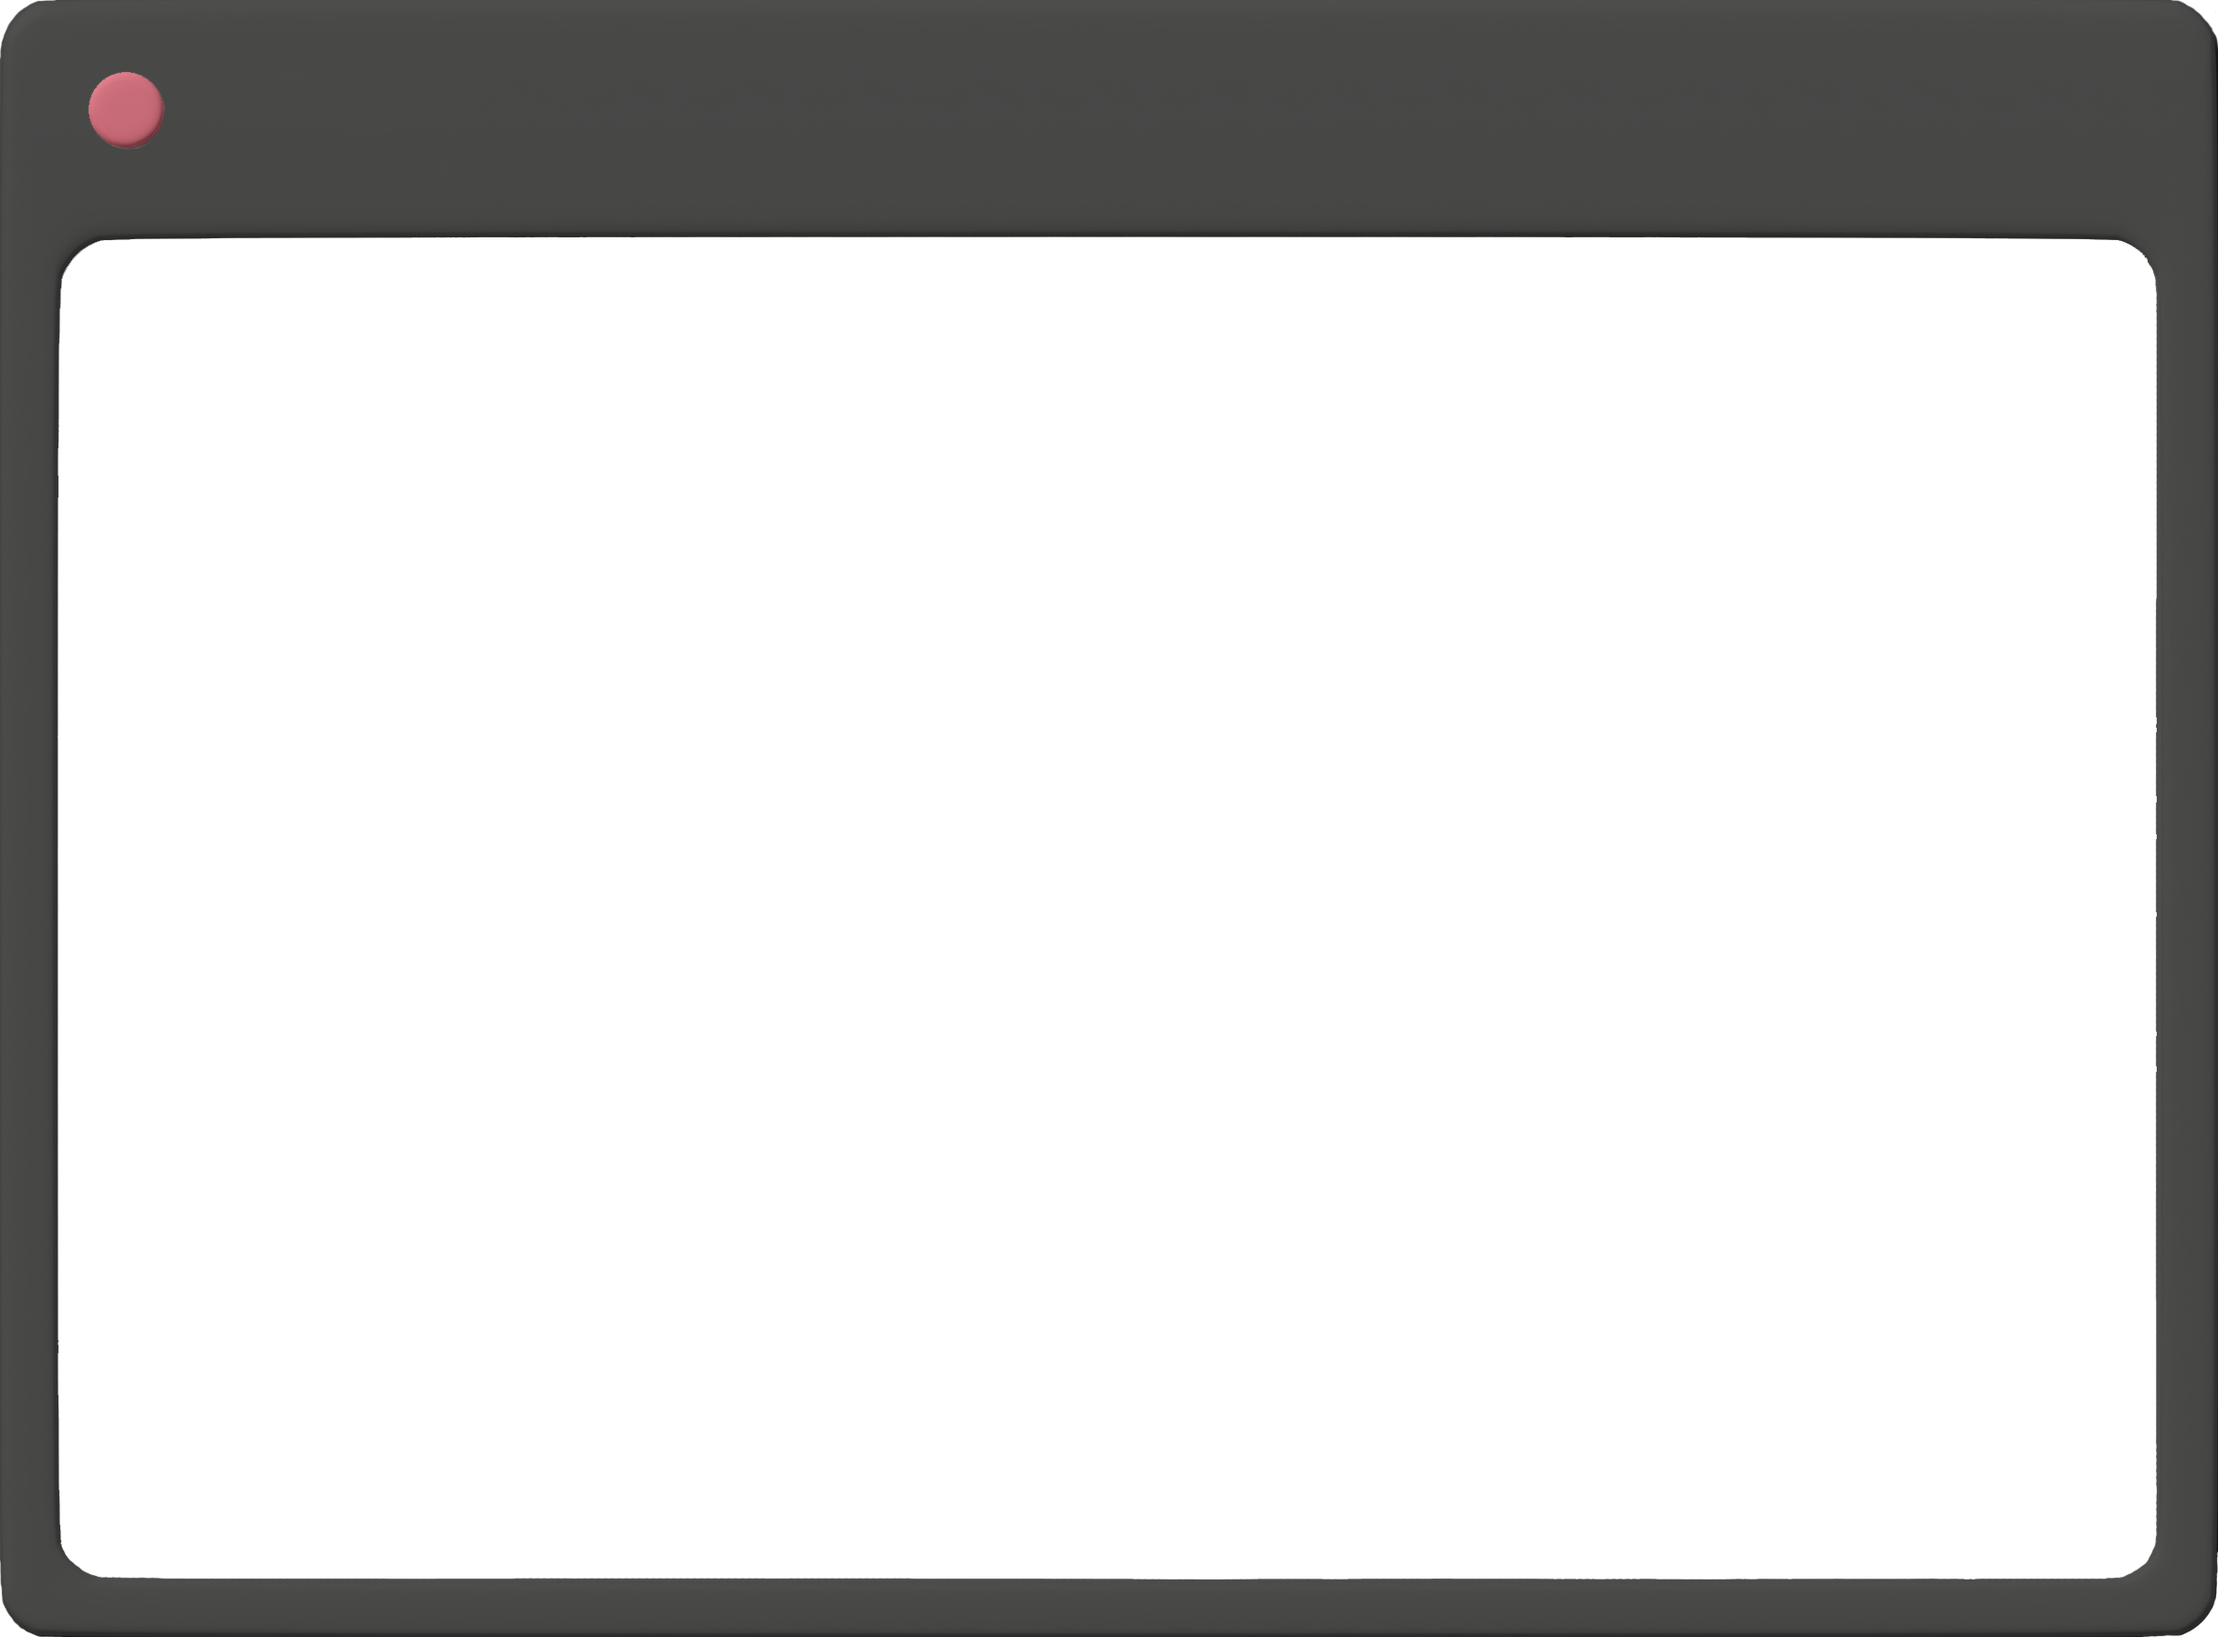
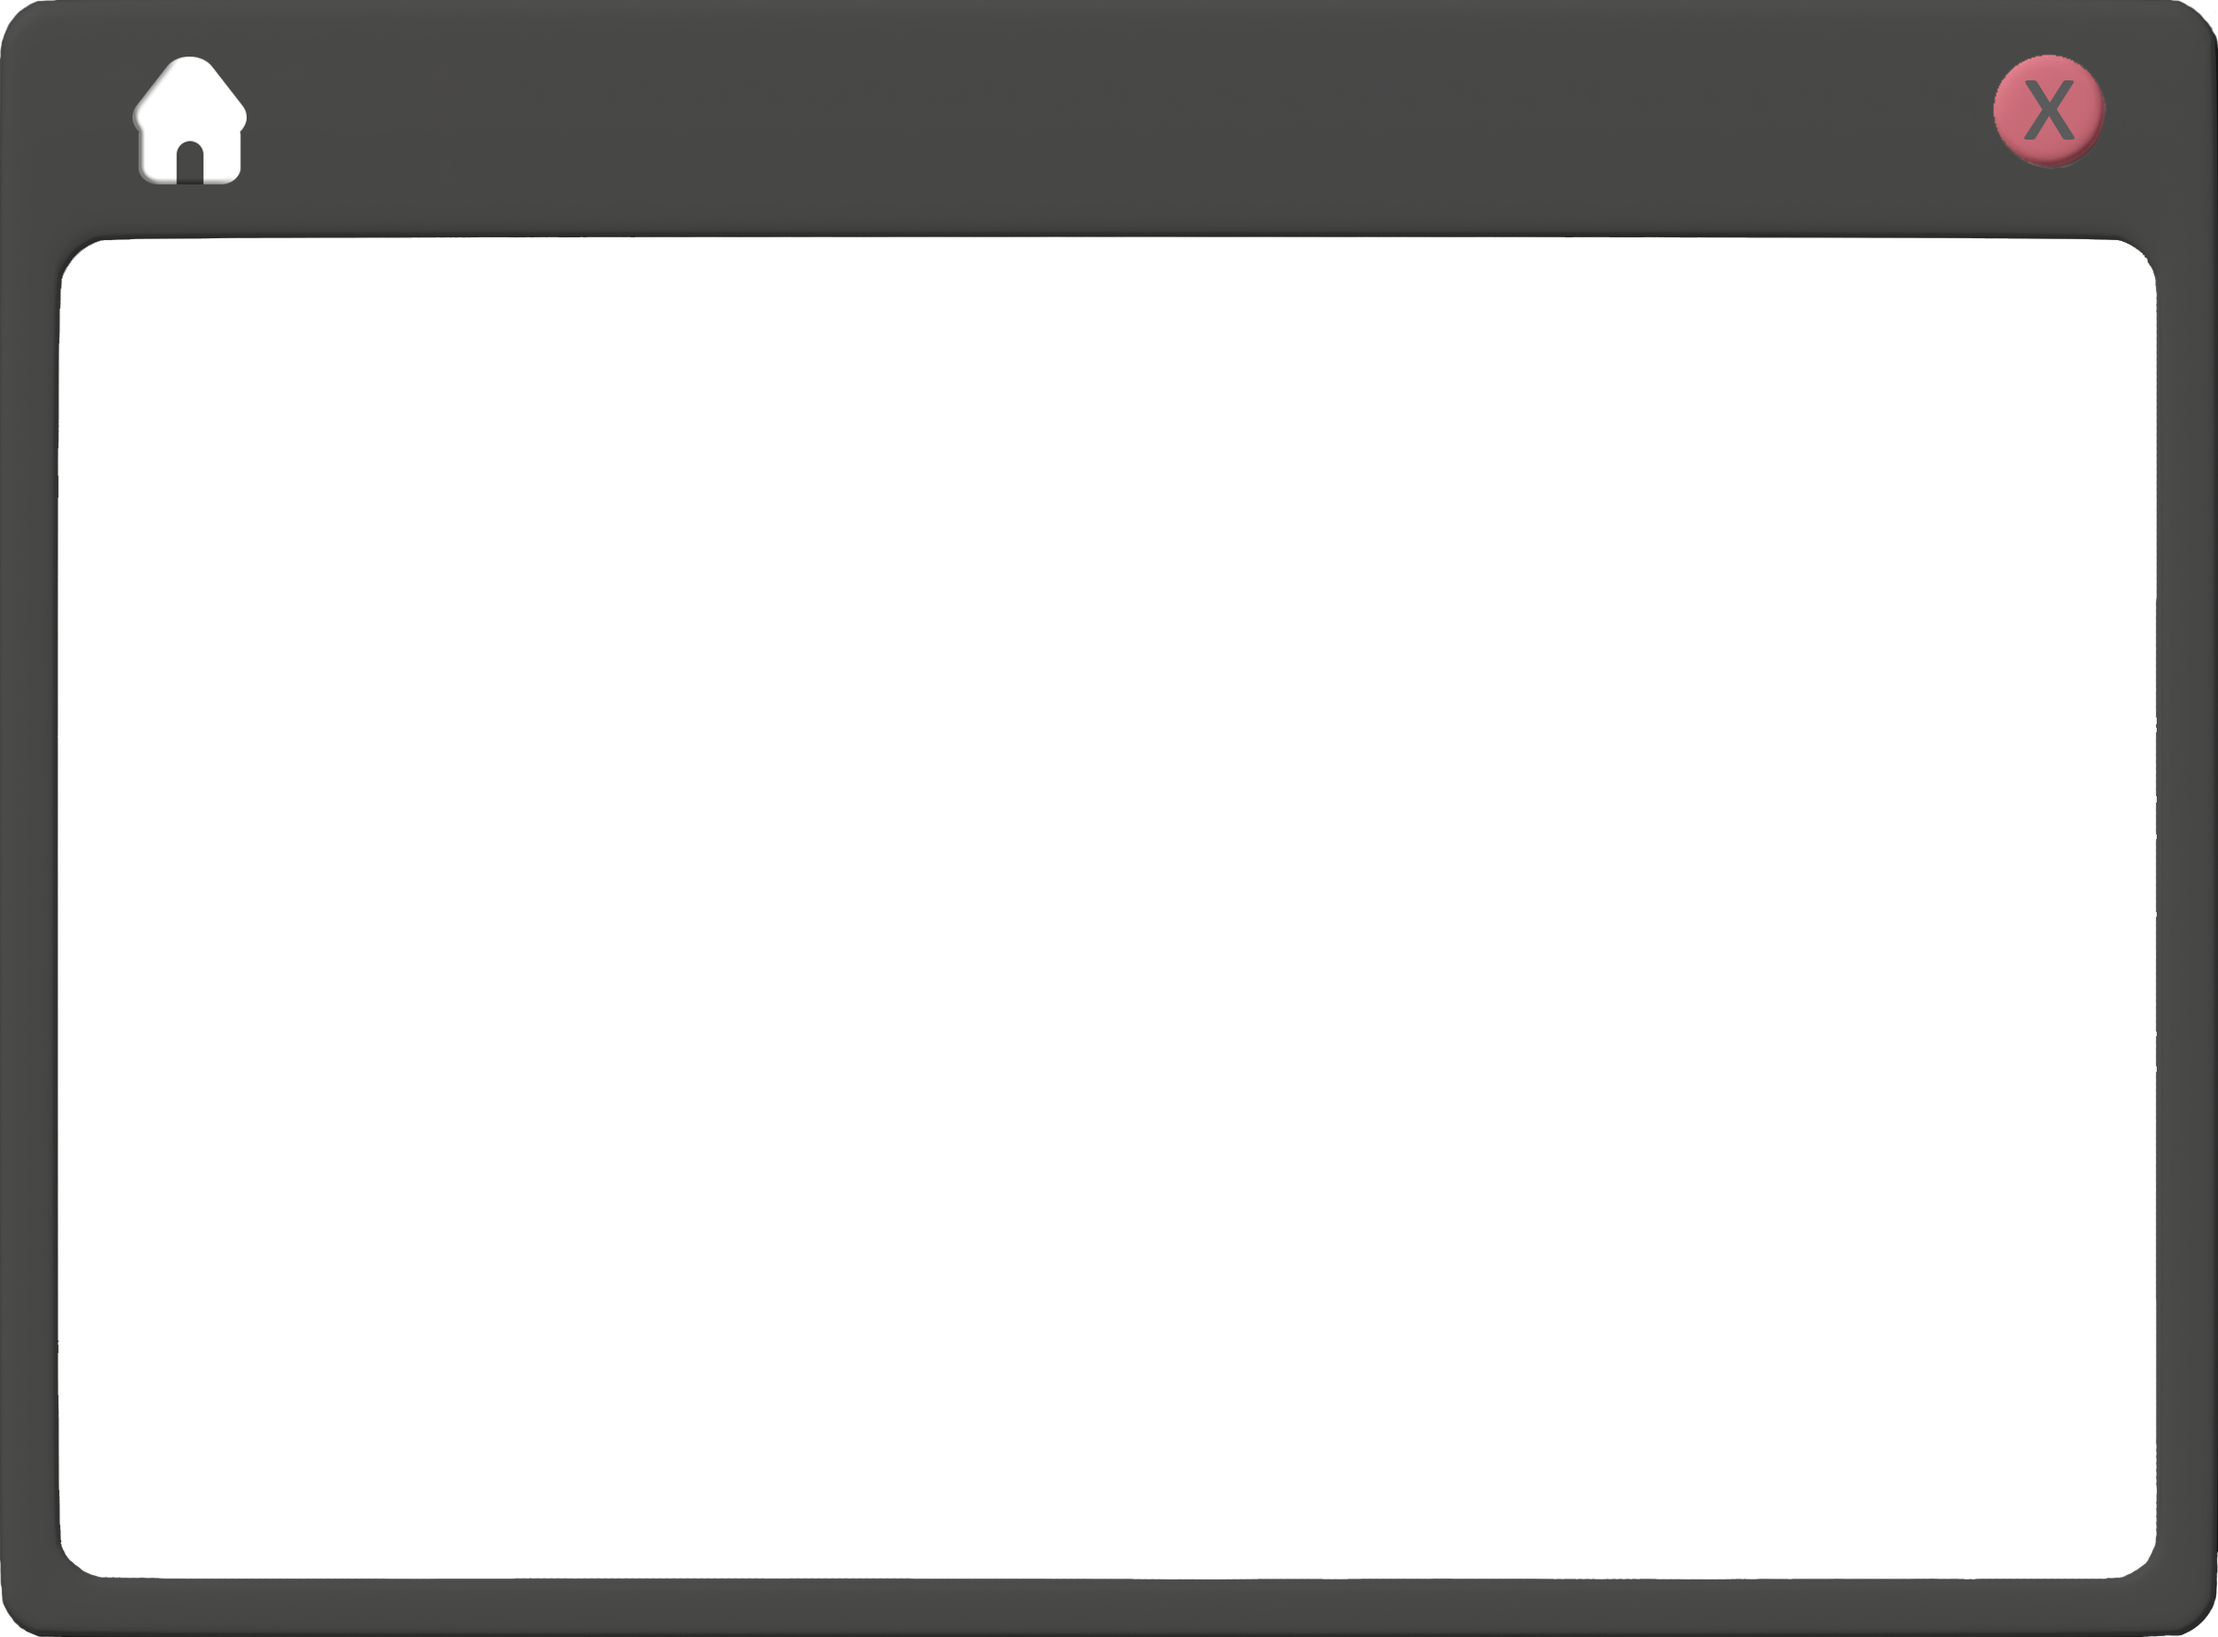
more UI

Changed region(s): [[0.0309, 0.0312, 0.1236, 0.1249], [0.8958, 0.0312, 0.9576, 0.1249]]

diff --git a/src/ui/overlays/Smartphone.svelte b/src/ui/overlays/Smartphone.svelte
@@ -1,11 +1,51 @@
 <script>
   import { currentState } from '../../lib/stores.js';
   import SocialMediaApp from './applications/SocialMediaApp.svelte';
+  import FiresSite from './applications/FiresSite.svelte';
+  import MessagesApp from './applications/MessagesApp.svelte';
+  import PhoneApp from './applications/PhoneApp.svelte';
+
+  let smartphoneState = 0;
+
+  const scene = {
+    0: false,
+    1: SocialMediaApp,
+    2: FiresSite,
+    3: MessagesApp,
+    4: PhoneApp
+  };
 </script>
 
 <container>
   <viewport>
-    <SocialMediaApp />
+    {#if smartphoneState == 0}
+      <button
+        on:click={() => {
+          smartphoneState = 1;
+        }}>SocialMedia</button>
+      <button
+        on:click={() => {
+          smartphoneState = 1;
+        }}>RFS/ACT Site</button>
+      <button
+        on:click={() => {
+          smartphoneState = 3;
+        }}>Messages App</button>
+      <button
+        on:click={() => {
+          smartphoneState = 1;
+        }}>PhoneApp</button>
+    {/if}
+
+    {#if !$currentState.nonfunctionalComponents.includes(3)}
+      <!-- TODO: full signal div -->
+      <svelte:component this={scene[smartphoneState]} />
+    {:else}
+      <!-- TODO: No signal div -->
+      {#if smartphoneState != 0}
+        empty content div
+      {/if}
+    {/if}
   </viewport>
   <svg
     version="1.1"
@@ -16,6 +56,14 @@
       width="1048"
       height="1816"
       xlink:href="BushfiresProject/smartphone.png" />
+    <circle
+      r="48"
+      cx="524"
+      cy="1739"
+      opacity="0.5"
+      on:click={() => {
+        smartphoneState = 0;
+      }} />
   </svg>
 </container>
 
@@ -24,7 +72,7 @@
     position: absolute;
     margin-top: 9.5%;
     margin-left: 2.5%;
-    height: 88.6%;
+    height: 85.7%;
     width: 95%;
     border-radius: 20px;
   }

diff --git a/src/ui/overlays/Laptop.svelte b/src/ui/overlays/Laptop.svelte
@@ -1,11 +1,34 @@
 <script>
   import { currentState } from '../../lib/stores.js';
   import SocialMediaApp from './applications/SocialMediaApp.svelte';
+  import FiresSite from './applications/FiresSite.svelte';
+
+  let laptopState = 0;
+
+  const scene = {
+    0: false,
+    1: SocialMediaApp,
+    2: FiresSite
+  };
 </script>
 
 <container>
   <viewport>
-    <SocialMediaApp />
+    {#if !$currentState.nonfunctionalComponents.includes(1)}
+      {#if laptopState == 0}
+        <button
+          on:click={() => {
+            laptopState = 1;
+          }}>SocialMedia</button>
+        <button
+          on:click={() => {
+            laptopState = 2;
+          }}>RFS/ACT Site</button>
+      {/if}
+      <svelte:component this={scene[laptopState]} />
+    {:else}
+      you are not connected to the internet
+    {/if}
   </viewport>
 
   <svg
@@ -18,12 +41,21 @@
       height="1793"
       xlink:href="BushfiresProject/laptop.png" />
     <circle
-      r="44"
-      cx="138"
-      cy="120"
+      r="61"
+      cx="2243"
+      cy="121"
       opacity="0"
       on:click={() => {
         $currentState.overlayComponent = 0;
+      }} />
+    <rect
+      x="140"
+      y="60"
+      width="135"
+      height="145"
+      opacity="0"
+      on:click={() => {
+        laptopState = 0;
       }} />
   </svg>
 </container>

diff --git a/src/ui/Desk.svelte b/src/ui/Desk.svelte
@@ -28,7 +28,7 @@
   } else if ($currentState.overlayComponent != 0) {
     speedFactor = 0;
   } else {
-    speedFactor = 11250;
+    speedFactor = 45000;
   }
 
   onMount(() => {
@@ -40,10 +40,14 @@
       if ($currentState.gameState < alerts.length) {
         nextTime = Date.parse(alerts[$currentState.gameState].time);
       }
-    }, 250);
+    }, 1000);
   });
 </script>
 
+<!-- TODO: if alert is extreme, high chance of a device turning off | if alert is advice, high chance of an offline device being restored -->
+<!-- TODO:  desk progresses stage, pulls next data point, and stores it in an appropriate recent data array for each component -->
+
+<!-- TODO: if alert is extreme, high chance of roadblockage occurring | if road blocked and alert drops to advice, road is unblocked | prompt users to think about if they are prepared -->
 <!-- REF: https://stackoverflow.com/questions/7844399/responsive-image-map -->
 <container in:fade={{ delay: 500, duration: 1500 }}>
   <svg

diff --git a/src/lib/stores.js b/src/lib/stores.js
@@ -1,16 +1,12 @@
 import { writable } from 'svelte/store';
 
-export const speech = new SpeechSynthesisUtterance();
-speech.lang = 'en-AU';
-speech.rate = 0.85;
-
 export const currentState = writable({
-  appState: 0, // 0 == uninitialized; 1 == introduction; 2 == game; 3 == end
+  appState: 2, // 0 == uninitialized; 1 == introduction; 2 == game; 3 == end
   gameState: 0, // index of the current scenario
   showMenu: true,
   overlayComponent: 0,
   servedAlerts: [], // array of alerts presented to the user
-  nonfunctionalComponents: [2] // array of broken components
+  nonfunctionalComponents: [1, 3] // array of broken components
 });
 
 export const defaultState = {

diff --git a/src/ui/Intro.svelte b/src/ui/Intro.svelte
@@ -27,6 +27,8 @@
           $currentState.appState = 2;
         }, 3000);
       }}>
+      <!-- TODO: prompt the user to think of the route in intro info -->
+
       <instructions>info</instructions>
     </OutClick>
   {/if}

diff --git a/README.md b/README.md
@@ -1,15 +1,5 @@
 Bushfire Simulator App
 Bushfires Project
 
-<!-- TODO: if alert is extreme, high chance of a device turning off | if alert is advice, high chance of an offline device being restored -->
-<!-- TODO:  desk progresses stage, pulls next data point, and stores it in an appropriate recent data array for each component -->
-
-<!-- TODO: if alert is extreme, high chance of roadblockage occurring | if road blocked and alert drops to advice, road is unblocked | prompt users to think about if they are prepared -->
-
-<!-- TODO: if alert is extreme do not leave, then prompt users with a fire threat (embers in gutters, etc) | if extreme drops to advice, reset this -->
-<!-- TODO: prompt the user to think of the route in intro info -->
-<!-- TODO:  -->
-<!-- TODO:  -->
-
 literature review needs to better justify the design
 how to theoretically motivate people cognitive theory 3900 interaction design textbook chapter
